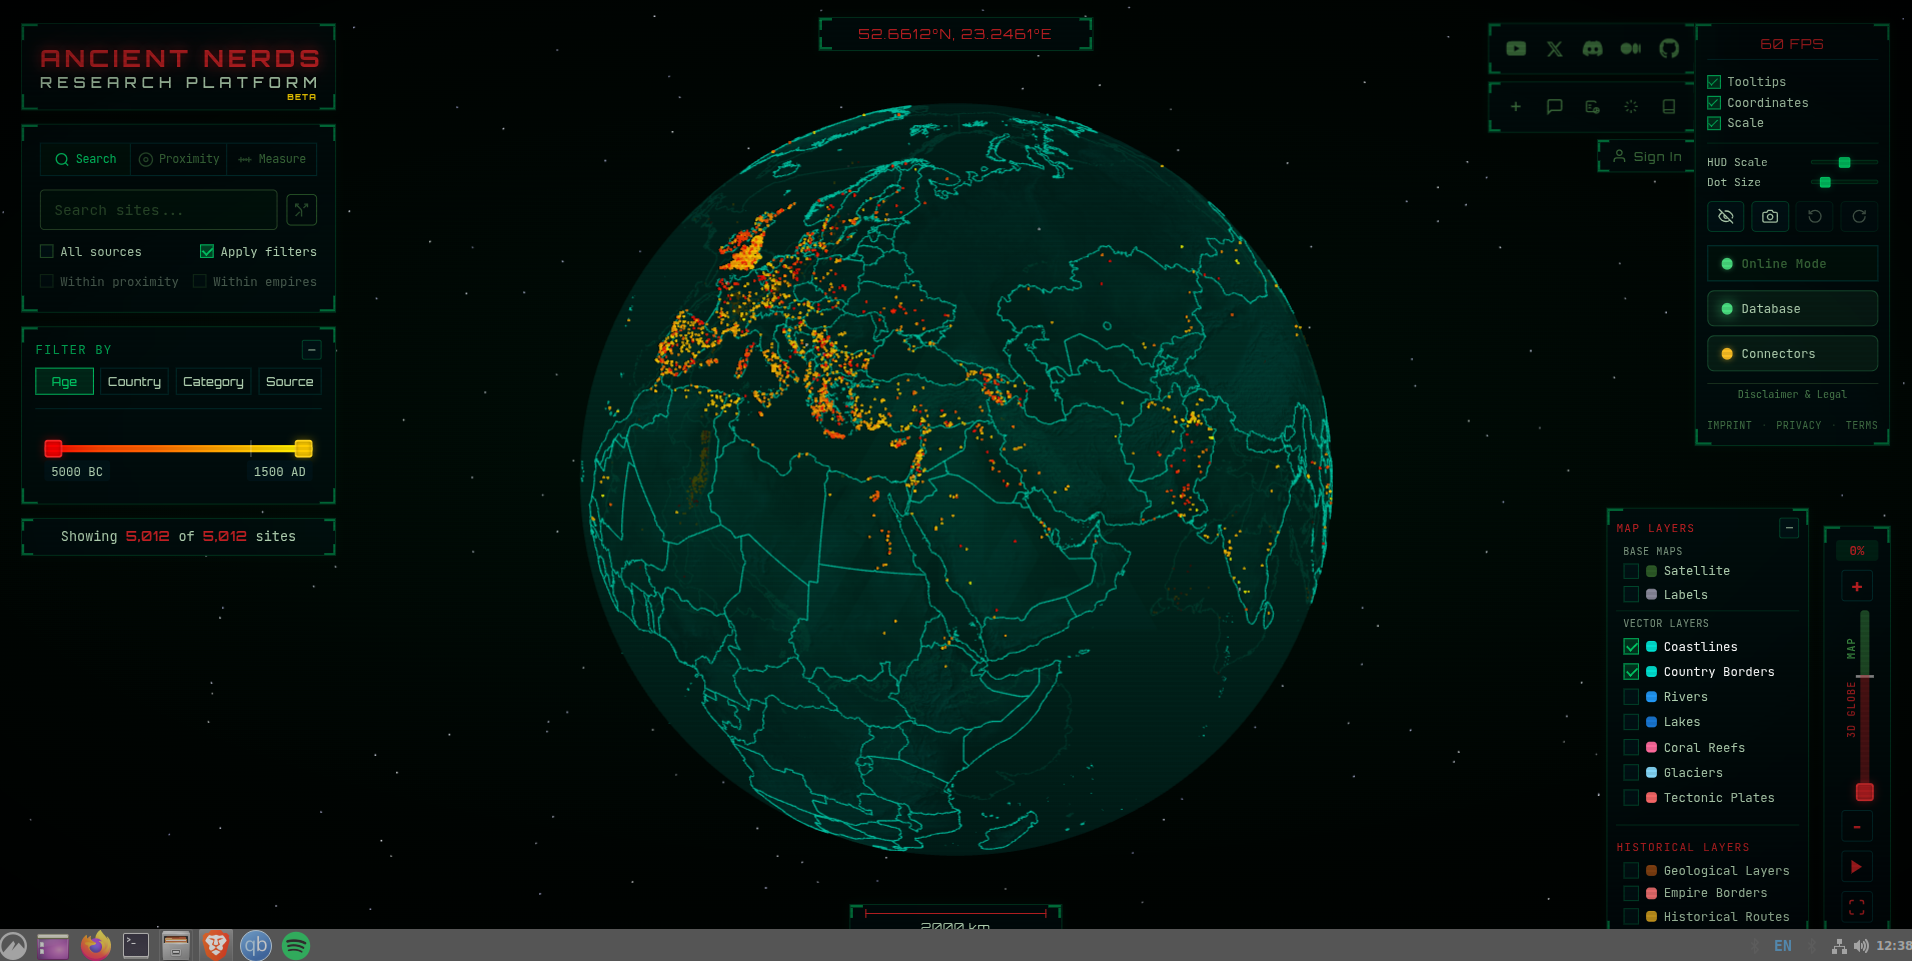
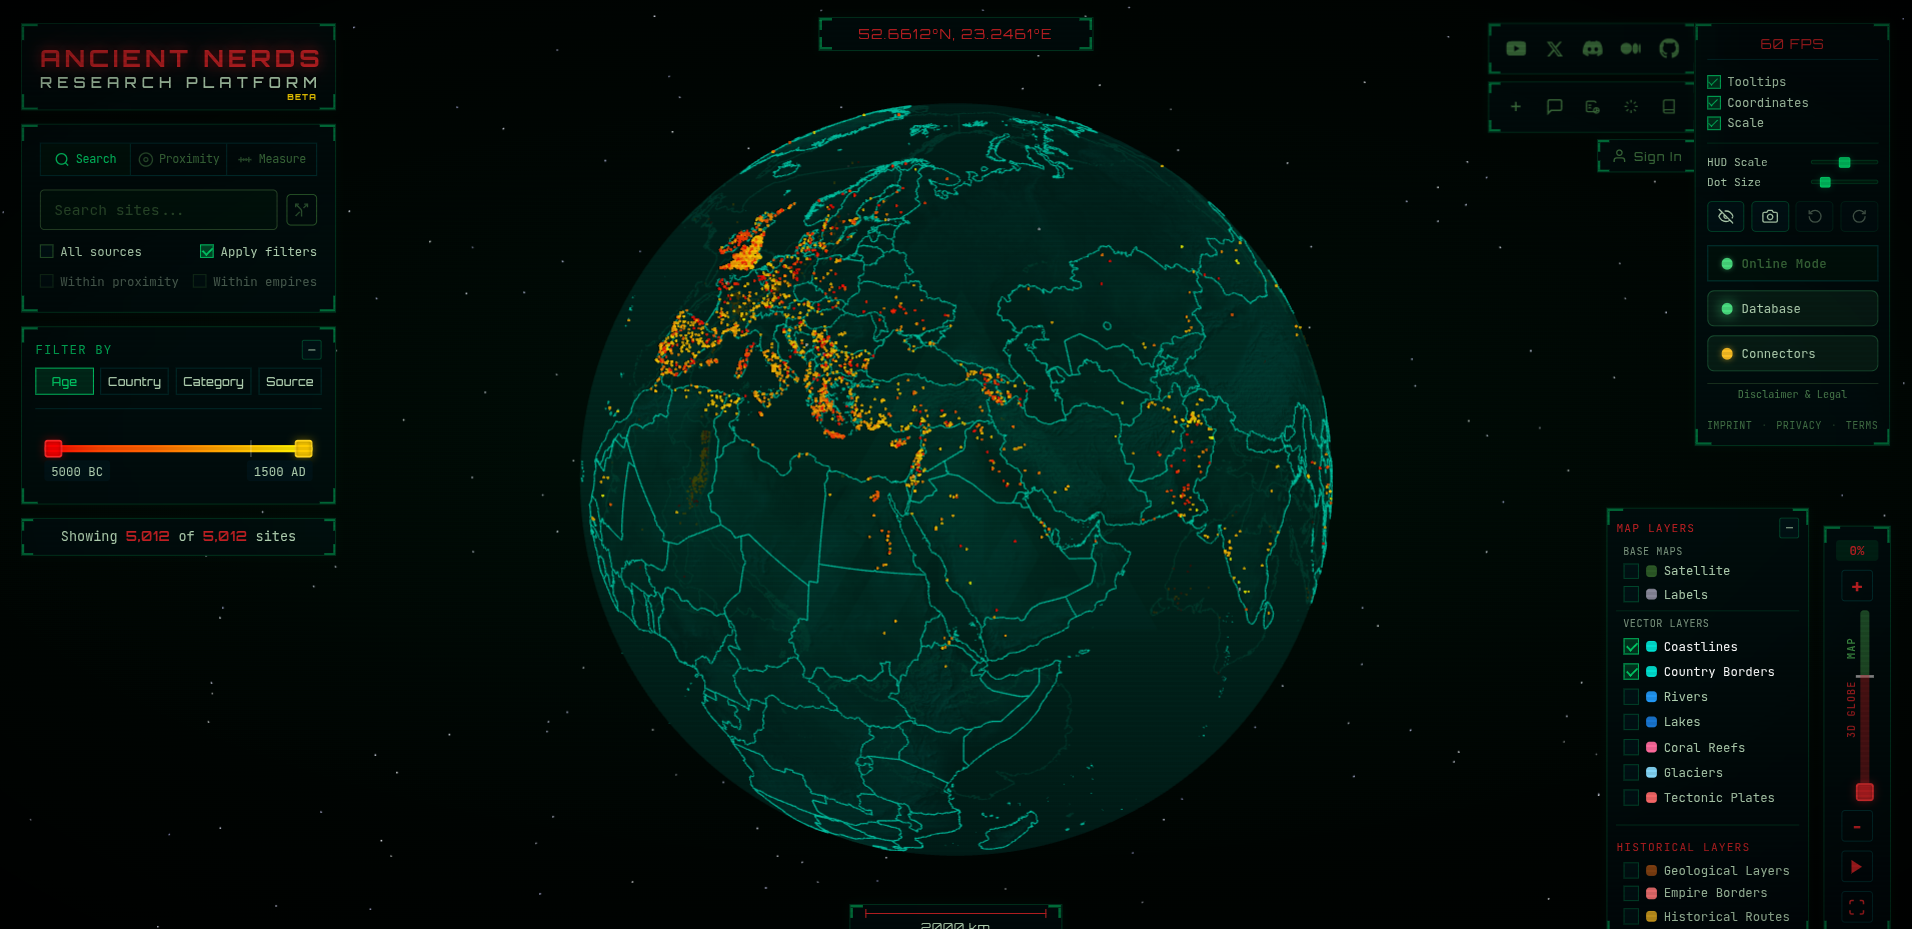
docs(user-guide): fix globe URL, repo-relative paths, SW route note, crop screenshot
- Link to /globe.html (extensionless /globe serves the landing page and
  is swallowed by the PWA service worker for returning visitors)
- Prefix maintenance paths with ancient-nerds-map/
- Note that new extensionless routes need navigateFallbackDenylist entries
- Crop OS taskbar off the interface screenshot

diff --git a/docs/user-guide/README.md b/docs/user-guide/README.md
@@ -1,6 +1,6 @@
 # Ancient Nerds Globe User Guide
 
-This guide explains the [Ancient Nerds interactive globe](https://ancientnerds.com/globe) for researchers and general users. It focuses on the map interface rather than the wider Ancient Nerds platform.
+This guide explains the [Ancient Nerds interactive globe](https://ancientnerds.com/globe.html) for researchers and general users. It focuses on the map interface rather than the wider Ancient Nerds platform.
 
 > The globe is under active development. Controls, counts, available sources, and connected research material may change.
 
@@ -16,7 +16,7 @@ This guide explains the [Ancient Nerds interactive globe](https://ancientnerds.c
 
 ## Quick start
 
-1. Open the [globe](https://ancientnerds.com/globe).
+1. Open the [globe](https://ancientnerds.com/globe.html).
 2. Drag the globe to rotate it and use the mouse wheel, trackpad, or right-side zoom control to change scale.
 3. Search for a site by name, or click a visible site marker.
 4. Use **Filter By** to restrict the display by age, country, category, or source.

diff --git a/docs/user-guide/INTEGRATION.md b/docs/user-guide/INTEGRATION.md
@@ -31,15 +31,17 @@ docs/user-guide/
 | `offline-and-troubleshooting.md` | `/guide/offline` |
 | `research-notes.md` | `/guide/research-notes` |
 
+> Note: any new extensionless route must be added to `navigateFallbackDenylist` in `ancient-nerds-map/vite.config.ts`, otherwise the installed PWA's service worker serves the cached landing page instead of the route.
+
 ## Maintenance
 
 Review the guide when any of these components change:
 
-- `src/components/FilterPanel.tsx`
-- `src/components/Globe.tsx`
-- `src/components/Globe/panels/`
-- `src/components/SitePopup/`
-- `src/components/DownloadManager.tsx`
+- `ancient-nerds-map/src/components/FilterPanel.tsx`
+- `ancient-nerds-map/src/components/Globe.tsx`
+- `ancient-nerds-map/src/components/Globe/panels/`
+- `ancient-nerds-map/src/components/SitePopup/`
+- `ancient-nerds-map/src/components/DownloadManager.tsx`
 - vector, empire, geological, or route configuration
 
 Keep interface labels identical to the application. Where counts or source totals can change, use descriptive language rather than hard-coded values.
